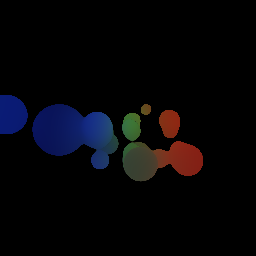
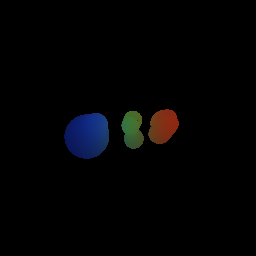
feat: アニーリング

Changed region(s): [[0.0, 0.3438, 0.8125, 0.7188], [0.625, 0.4062, 0.6562, 0.4375]]

diff --git a/src/bin/train.rs b/src/bin/train.rs
@@ -19,7 +19,7 @@ fn main() {
     // --------------------------------------------------------
     // 設定: 球を100個に増やす
     // --------------------------------------------------------
-    const N: usize = 20;
+    const N: usize = 10;
     const BATCH_SIZE: usize = 4096; // VRAMに合わせて調整 (2048~8192くらい)
     const ITERATIONS: usize = 2000; // バッチ学習なので回数を増やす
 
@@ -100,11 +100,41 @@ fn main() {
         bg_indices.len()
     );
 
-    // --- 3. モデル初期化 (100個) ---
-    // 初期配置を少し広げる (0.5 -> 0.8)
+    // --- 3. モデル初期化 ---
+    let n_f32 = N as f32;
+    let grid_size = n_f32.cbrt().ceil() as usize; // N=20なら grid_size=3 (最大27個入る箱)
+    let step_size = 1.0 / (grid_size as f32 - 1.0).max(1.0);
+
+    let mut grid_centers: Vec<f32> = Vec::with_capacity(N * 3);
+    let mut rng = rand::rng();
+
+    'outer: for x in 0..grid_size {
+        for y in 0..grid_size {
+            for z in 0..grid_size {
+                if grid_centers.len() >= N * 3 {
+                    break 'outer; // N個に達したら終了
+                }
+                // -0.3 ~ 0.3 の範囲で配置
+                let px = (x as f32 * step_size) - 0.3;
+                let py = (y as f32 * step_size) - 0.3;
+                let pz = (z as f32 * step_size) - 0.3;
+
+                // 配置間隔を少し広げる (スケール調整) + 微小なジッター(ノイズ)を加えて
+                let mut jitter = || rng.random_range(-0.01..0.01);
+                grid_centers.push(px * 1.3 + jitter());
+                grid_centers.push(py * 1.3 + jitter());
+                grid_centers.push(pz * 1.3 + jitter());
+            }
+        }
+    }
+
+    // もし N 個に満たない場合は、残りをランダムで埋める
+    while grid_centers.len() < N * 3 {
+        grid_centers.push(rng.random_range(-0.8..0.8));
+    }
+
     let init_centers =
-        Tensor::<MyBackend, 1>::random([N, 3], Distribution::Uniform(-0.8, 0.8), &device)
-            .reshape([N, 3]);
+        Tensor::<MyBackend, 1>::from_floats(grid_centers.as_slice(), &device).reshape([N, 3]);
     let init_logits = Tensor::<MyBackend, 1>::zeros([N * 3], &device).reshape([N, 3]);
     let init_radii = Tensor::<MyBackend, 1>::from_floats([0.0; N], &device).reshape([N, 1]); // 小さめでスタート(Softplus(-2) ≈ 0.12)
 
@@ -148,8 +178,12 @@ fn main() {
         let batch_rd = train_rays_d.clone().select(0, indices.clone()).detach();
         let batch_target = train_targets.clone().select(0, indices).detach();
 
+        // --- アニーリングの計算 ---
+        let progress = i as f32 / ITERATIONS as f32;
+        let smooth_k = 5.0 + (32.0 - 5.0) * progress;
+
         // --- Forward & Backward ---
-        let output = model.forward(batch_ro, batch_rd);
+        let output = model.forward(batch_ro, batch_rd, smooth_k);
 
         // ==========================================
         // --- Loss計算 ---
@@ -174,7 +208,6 @@ fn main() {
         let radii = activation::softplus(model.radius.val(), 1.0);
 
         // [a] 半径ペナルティ: 球が大きくなりすぎるのを防ぎつつ、不要な球を小さくする
-        // 元の「1.0を超えたら罰則」に加えて、常に少しだけ半径を小さくしようとする L1 正則化を足す
         let radius_l1_penalty = radii.clone().abs().mean();
 
         let r_mask = radii.clone().greater_elem(1.0);
@@ -182,12 +215,11 @@ fn main() {
             .mask_where(r_mask, radii.clone().powf_scalar(2.0))
             .mean();
 
-        // ゴミを消すために L1 ペナルティをわずかに効かせる (0.01 くらいから調整)
-        loss = loss + radius_large_penalty * 0.1 + radius_l1_penalty * 0.001;
+        loss = loss + radius_large_penalty * 0.1 + radius_l1_penalty * 0.004;
 
         // [b] 原点引力: 球がバラバラに散らばるのを防ぐ
         let center_penalty = centers.clone().powf_scalar(2.0).mean();
-        loss = loss + center_penalty * 0.1; // Billboard対策で少し強めに設定(0.001 -> 0.05)
+        loss = loss + center_penalty * 0.1; // Billboard対策で少し強めに設定
 
         // [c] カメラ近接バリア (Billboard Effect対策の要)
         let centers_val = model.centers.val();
@@ -200,8 +232,6 @@ fn main() {
 
         // 境界線 1.5 を超えているかどうかのマスク
         let out_of_bounds_mask = max_reach.clone().greater_elem(1.2);
-
-        // はみ出した距離の2乗をペナルティにする (なめらかに勾配が効くように)
         let excess_dist = max_reach.clone() - 1.1;
         let penalty_values = excess_dist.powf_scalar(2.0);
 
@@ -211,7 +241,7 @@ fn main() {
 
         loss = loss + camera_proximity_penalty * 5.0;
 
-        // [d] 反発項: 球同士の重なりを防ぐ (展開公式による高速化版)
+        // [d] 反発項: 球同士の重なりを防ぐ
         let centers_val = model.centers.val();
         let c_sq_val = centers_val.clone().powf_scalar(2.0).sum_dim(1); // [N, 1]
         let c_sq_t = c_sq_val.clone().transpose(); // [1, N]
@@ -221,7 +251,7 @@ fn main() {
         let dist_matrix = dist_sq.clamp_min(1e-6).sqrt(); // [N, N]
         let eye = Tensor::<MyBackend, 2>::eye(N, &device);
         let repulsion_loss = (dist_matrix + eye * 100.0 + 1e-6).powf_scalar(-1.0).mean();
-        loss = loss + repulsion_loss * 0.00001; // 極力弱める(0.0002 -> 0.00001)
+        loss = loss + repulsion_loss * 0.00001;
 
         let grads = loss.backward();
         let grads = GradientsParams::from_grads(grads, &model);
@@ -264,10 +294,9 @@ fn main() {
 
     // 1. パラメータを確定値(物理量)に変換して取り出す
     let centers_tensor = model.centers.val();
-    let colors_tensor = activation::sigmoid(model.colors.val()); // 色は0~1に
-    let radii_tensor = activation::softplus(model.radius.val(), 1.0); // 半径は正の値に
+    let colors_tensor = activation::sigmoid(model.colors.val());
+    let radii_tensor = activation::softplus(model.radius.val(), 1.0);
 
-    // CPUに転送
     let centers_vec: Vec<f32> = centers_tensor
         .into_data()
         .convert::<f32>()
@@ -276,7 +305,6 @@ fn main() {
     let colors_vec: Vec<f32> = colors_tensor.into_data().convert::<f32>().to_vec().unwrap();
     let radii_vec: Vec<f32> = radii_tensor.into_data().convert::<f32>().to_vec().unwrap();
 
-    // 2. 保存用の構造体を作る
     #[derive(serde::Serialize)]
     struct SceneData {
         num_spheres: usize,
@@ -297,10 +325,6 @@ fn main() {
     serde_json::to_writer_pretty(file, &data).expect("Failed to write json");
 
     println!("Export done. Run `cargo run --release --bin viewer`");
-    // println!("Rendering final images...");
-    // save_tiled_preview(&model, ro1, rd1, width, height, "steps/final_1.png");
-    // save_tiled_preview(&model, ro2, rd2, width, height, "steps/final_2.png");
-    // save_tiled_preview(&model, ro3, rd3, width, height, "steps/final_3.png");
 }
 
 // --- ヘルパー: タイル分割レンダリング (VRAM節約) ---
@@ -321,15 +345,12 @@ fn save_tiled_preview<B: Backend>(
     let mut start = 0;
     while start < num_pixels {
         let end = (start + chunk_size).min(num_pixels);
-
-        // スライス
         let batch_ro = rays_o.clone().slice([start..end]);
         let batch_rd = rays_d.clone().slice([start..end]);
 
         // 推論 (勾配不要なので detach してもいいが、Model::forward が tensor を返すので
         // 返り値を detach するのが簡単)
-        let out = model.forward(batch_ro, batch_rd).detach();
-
+        let out = model.forward(batch_ro, batch_rd, 32.0).detach();
         outputs.push(out);
         start += chunk_size;
     }
@@ -338,4 +359,4 @@ fn save_tiled_preview<B: Backend>(
     let full_img_flat = Tensor::cat(outputs, 0);
 
     save_tensor_as_image(full_img_flat, width as u32, height as u32, path);
-} // マスク計算 (距離が近いほど1.0)
+}

diff --git a/src/model/scene.rs b/src/model/scene.rs
@@ -22,12 +22,24 @@ impl<B: Backend> SceneModel<B> {
         }
     }
 
-    pub fn forward(&self, ray_org: Tensor<B, 2>, ray_dir: Tensor<B, 2>) -> Tensor<B, 2> {
+    pub fn forward(
+        &self,
+        ray_org: Tensor<B, 2>,
+        ray_dir: Tensor<B, 2>,
+        smooth_k: f32,
+    ) -> Tensor<B, 2> {
         let colors_rgb = activation::sigmoid(self.colors.val());
         let centers = self.centers.val();
         let radius_positive = activation::softplus(self.radius.val(), 1.0) + 0.01;
 
-        render_diff(ray_org, ray_dir, centers, colors_rgb, radius_positive)
+        render_diff(
+            ray_org,
+            ray_dir,
+            centers,
+            colors_rgb,
+            radius_positive,
+            smooth_k,
+        )
     }
 }
 
@@ -35,6 +47,7 @@ pub fn scene_sdf_value<B: Backend>(
     p: Tensor<B, 2>,       // [N, 3]
     centers: Tensor<B, 2>, // [M, 3]
     radius: Tensor<B, 2>,  // [M, 1]
+    smooth_k: f32,
 ) -> Tensor<B, 2> {
     // 展開公式 (||p - c||^2 = ||p||^2 + ||c||^2 - 2p*c) を使って距離を計算
     let p_sq = p.clone().powf_scalar(2.0).sum_dim(1); // [N, 1]
@@ -48,13 +61,14 @@ pub fn scene_sdf_value<B: Backend>(
     let radius_row = radius.transpose(); // [1, M]
     let all_dists = dists - radius_row; // [N, M] - [1, M] -> [N, M]
 
-    soft_min_tensor(all_dists, 32.0)
+    soft_min_tensor(all_dists, smooth_k)
 }
 
 pub fn calc_normal_scene<B: Backend>(
     p: Tensor<B, 2>,       // [N, 3]
     centers: Tensor<B, 2>, // [M, 3]
     radius: Tensor<B, 2>,  // [M, 1]
+    smooth_k: f32,
 ) -> Tensor<B, 2> {
     // [N, 3] (Normal)
 
@@ -80,7 +94,7 @@ pub fn calc_normal_scene<B: Backend>(
 
     // 4. 一括でSDF計算
     // 結果は [N*6, 1]
-    let dists_flat = scene_sdf_value(p_flat, centers, radius);
+    let dists_flat = scene_sdf_value(p_flat, centers, radius, smooth_k);
 
     // 5. 結果を [N, 6] に戻す
     // 列0: +x, 列1: -x, 列2: +y... と並んでいます

diff --git a/src/renderer_diff.rs b/src/renderer_diff.rs
@@ -8,6 +8,7 @@ pub fn render_diff<B: Backend>(
     centers: Tensor<B, 2>, // [M, 3]
     colors: Tensor<B, 2>,  // [M, 3]
     radius: Tensor<B, 2>,  // [M, 1]
+    smooth_k: f32,
 ) -> Tensor<B, 2> // [N, 3]
 {
     let num_rays = ray_org.dims()[0];
@@ -17,7 +18,7 @@ pub fn render_diff<B: Backend>(
 
     for _ in 0..40 {
         let p = ray_org.clone() + ray_dir.clone() * t.clone();
-        let dist = scene_sdf_value(p, centers.clone(), radius.clone());
+        let dist = scene_sdf_value(p, centers.clone(), radius.clone(), smooth_k);
         t = (t + dist).detach();
     }
 
@@ -26,7 +27,7 @@ pub fn render_diff<B: Backend>(
     let p_approx = ray_org.clone() + ray_dir.clone() * t.clone();
 
     // ★ここがミソ: この SDF 評価には centers と radius の勾配が乗る
-    let dist_last = scene_sdf_value(p_approx, centers.clone(), radius.clone());
+    let dist_last = scene_sdf_value(p_approx, centers.clone(), radius.clone(), smooth_k);
 
     // detach された t に、勾配付きの dist_last を足すことで勾配を「再接続」する
     let t_final = t + dist_last;
@@ -38,6 +39,7 @@ pub fn render_diff<B: Backend>(
         p_final.clone().detach(),
         centers.clone().detach(),
         radius.clone().detach(),
+        smooth_k,
     );
 
     let light_dir_vec: [f32; 3] = [-0.5, 0.5, -1.0];
@@ -90,7 +92,7 @@ pub fn render_diff<B: Backend>(
     // let object_color = mixed_color * lighting;
     let object_color = mixed_color;
 
-    let dist_scene = scene_sdf_value(p_final, centers, radius);
+    let dist_scene = scene_sdf_value(p_final, centers, radius, smooth_k);
 
     let mask = activation::sigmoid(dist_scene.mul_scalar(-15.0));
 

diff --git a/src/renderer.rs b/src/renderer.rs
@@ -16,13 +16,13 @@ pub fn render<B: Backend>(
 
     for _ in 0..40 {
         let p = ray_org.clone() + ray_dir.clone() * t.clone();
-        let dist = scene_sdf_value(p, centers.clone(), radius.clone());
+        let dist = scene_sdf_value(p, centers.clone(), radius.clone(), 32.0);
         t = t + dist;
     }
 
     let p_final = ray_org + ray_dir * t;
 
-    let normal = calc_normal_scene(p_final.clone(), centers.clone(), radius.clone());
+    let normal = calc_normal_scene(p_final.clone(), centers.clone(), radius.clone(), 32.0);
 
     let light_dir_vec: [f32; 3] = [-0.5, 0.5, -1.0];
     // 正規化
@@ -72,7 +72,7 @@ pub fn render<B: Backend>(
 
     let object_color = mixed_color * lighting;
 
-    let dist_scene = scene_sdf_value(p_final, centers, radius);
+    let dist_scene = scene_sdf_value(p_final, centers, radius, 32.0);
 
     let mask = dist_scene.powf_scalar(2.0).mul_scalar(-10.0).exp();
 

diff --git a/src/model/sdf.rs b/src/model/sdf.rs
@@ -32,11 +32,13 @@ pub fn soft_min_tensor<B: Backend>(dists: Tensor<B, 2>, k: f32) -> Tensor<B, 2> 
     // Formula: -log( sum( exp(-k * d) ) ) / k
 
     // 数値安定性のため、最大値を引いてからexp計算する (LogSumExp trick)
-    // max_val: [N, 1]
-    let max_val = dists.clone().detach().mul_scalar(-k).max_dim(1);
+    // -k * d なので、最大値は -k * d の中での最大値
+    let val = dists.mul_scalar(-k);
+    let max_val = val.clone().detach().max_dim(1);
 
-    let exp = (dists.mul_scalar(-k) - max_val.clone()).exp();
+    let exp = (val - max_val.clone()).exp();
     let sum_exp = exp.sum_dim(1); // [N, 1]
 
-    (sum_exp.log() + max_val).div_scalar(-k)
+    // sum_exp が 0 になると log(0) = -inf となり NaN を引き起こすため、小さな値を足して防ぐ
+    (sum_exp.clamp_min(1e-8).log() + max_val).div_scalar(-k)
 }
